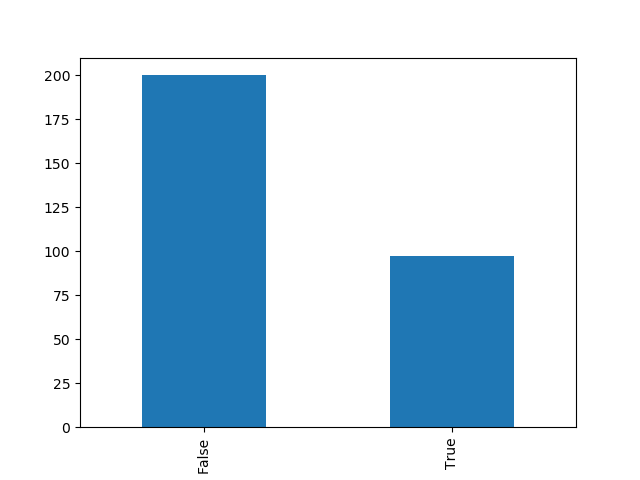
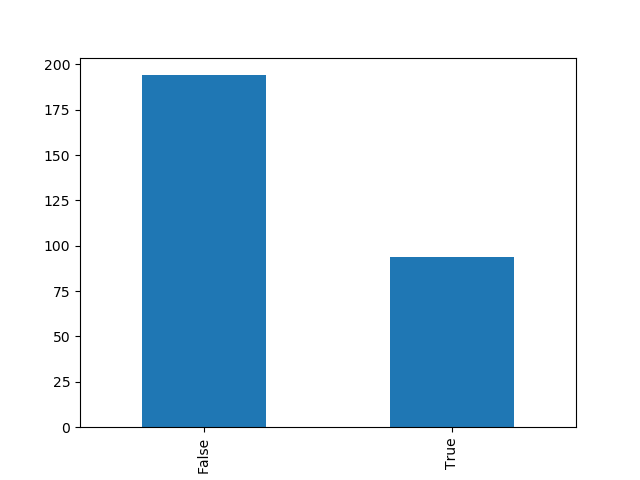
Better Outlier Removal

diff --git a/code/data_analysis.py b/code/data_analysis.py
@@ -77,13 +77,14 @@ heartDataFrame = heartDataFrame.astype({
 print(heartDataFrame)
 
 # Removing Outliers and saving box plotes
-# for i in heartDataFrame:
-#     if heartDataFrame.dtypes[i] == "int32" or heartDataFrame.dtypes[i] == "float64":
-#         heartDataFrame.boxplot(column=i)
-#         plt.savefig("./code/images/before_" + i)
-#         plt.close()
-#         heartDataFrame = heartDataFrame[heartDataFrame[i].between(
-#             heartDataFrame[i].quantile(.15), heartDataFrame[i].quantile(.85))]
+for i in heartDataFrame:
+    if heartDataFrame.dtypes[i] == "int32" or heartDataFrame.dtypes[i] == "float64":
+        heartDataFrame.boxplot(column=i)
+        plt.savefig("./code/images/before_" + i)
+        plt.close()
+        heartDataFrame = heartDataFrame[np.abs(heartDataFrame[i]-heartDataFrame[i].mean()) <= (3*heartDataFrame[i].std())]
+
+print(heartDataFrame)
 
 # Saving box plotes after removing Outliers
 for i in heartDataFrame:
